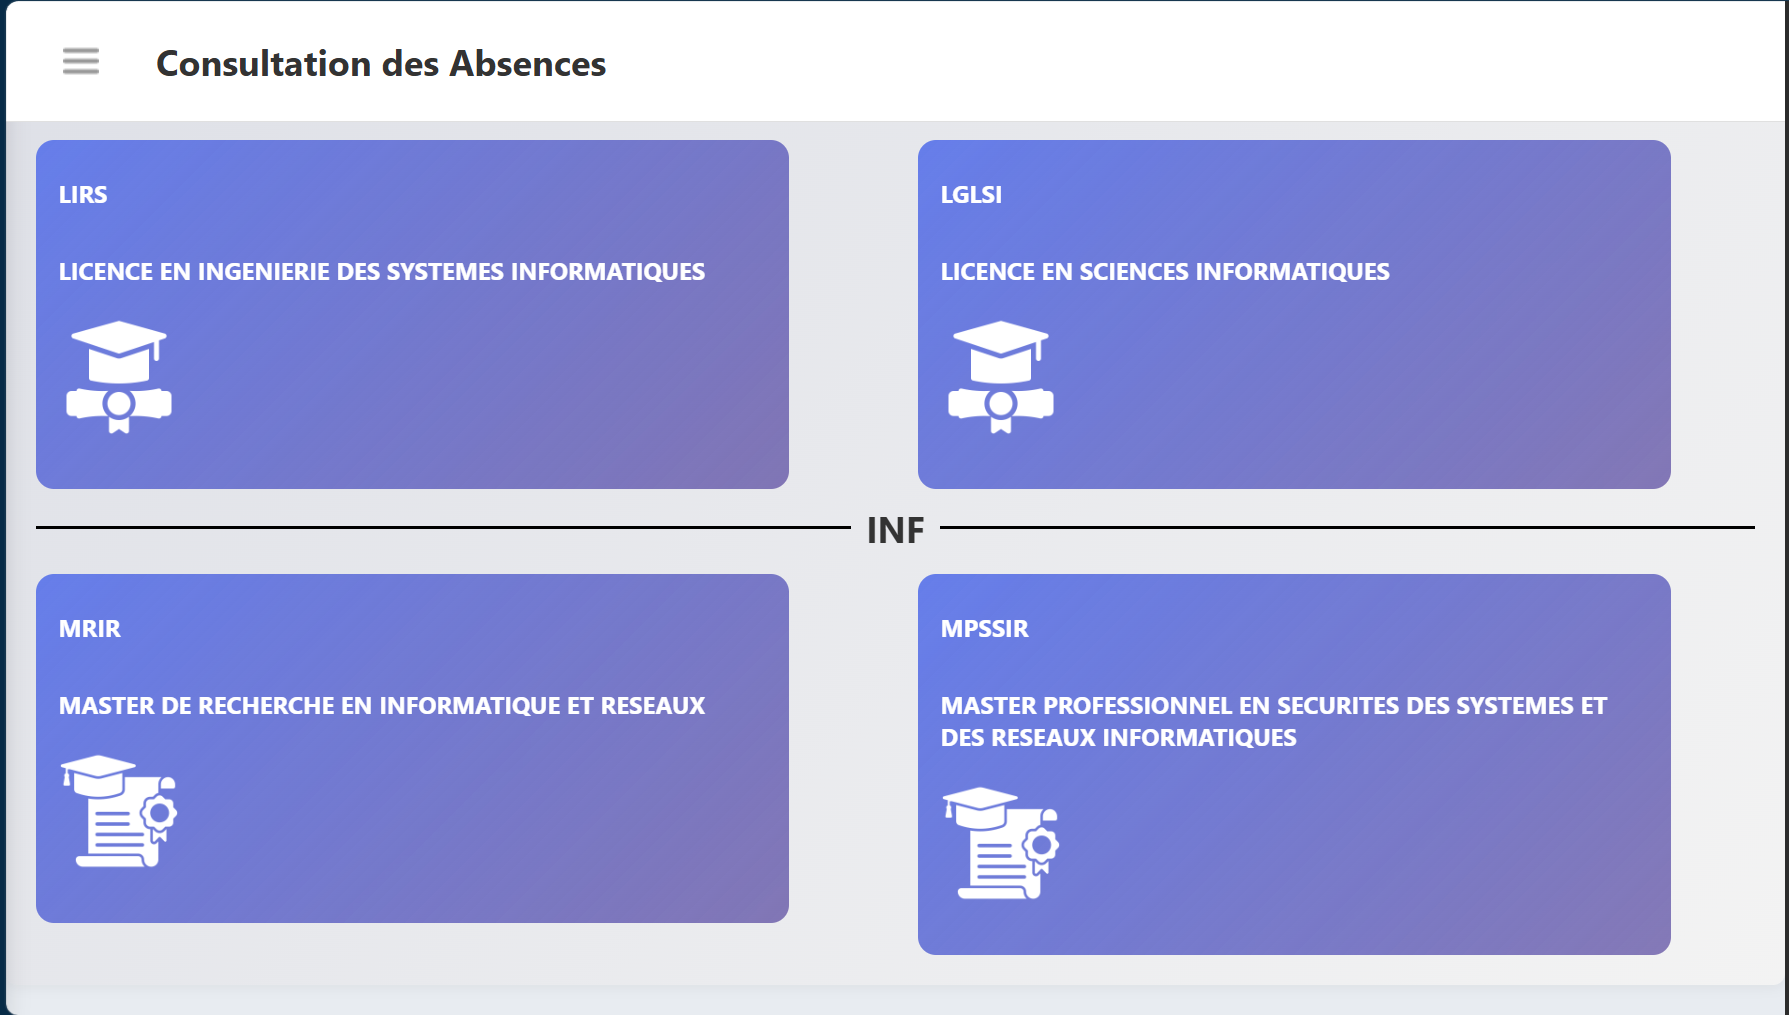
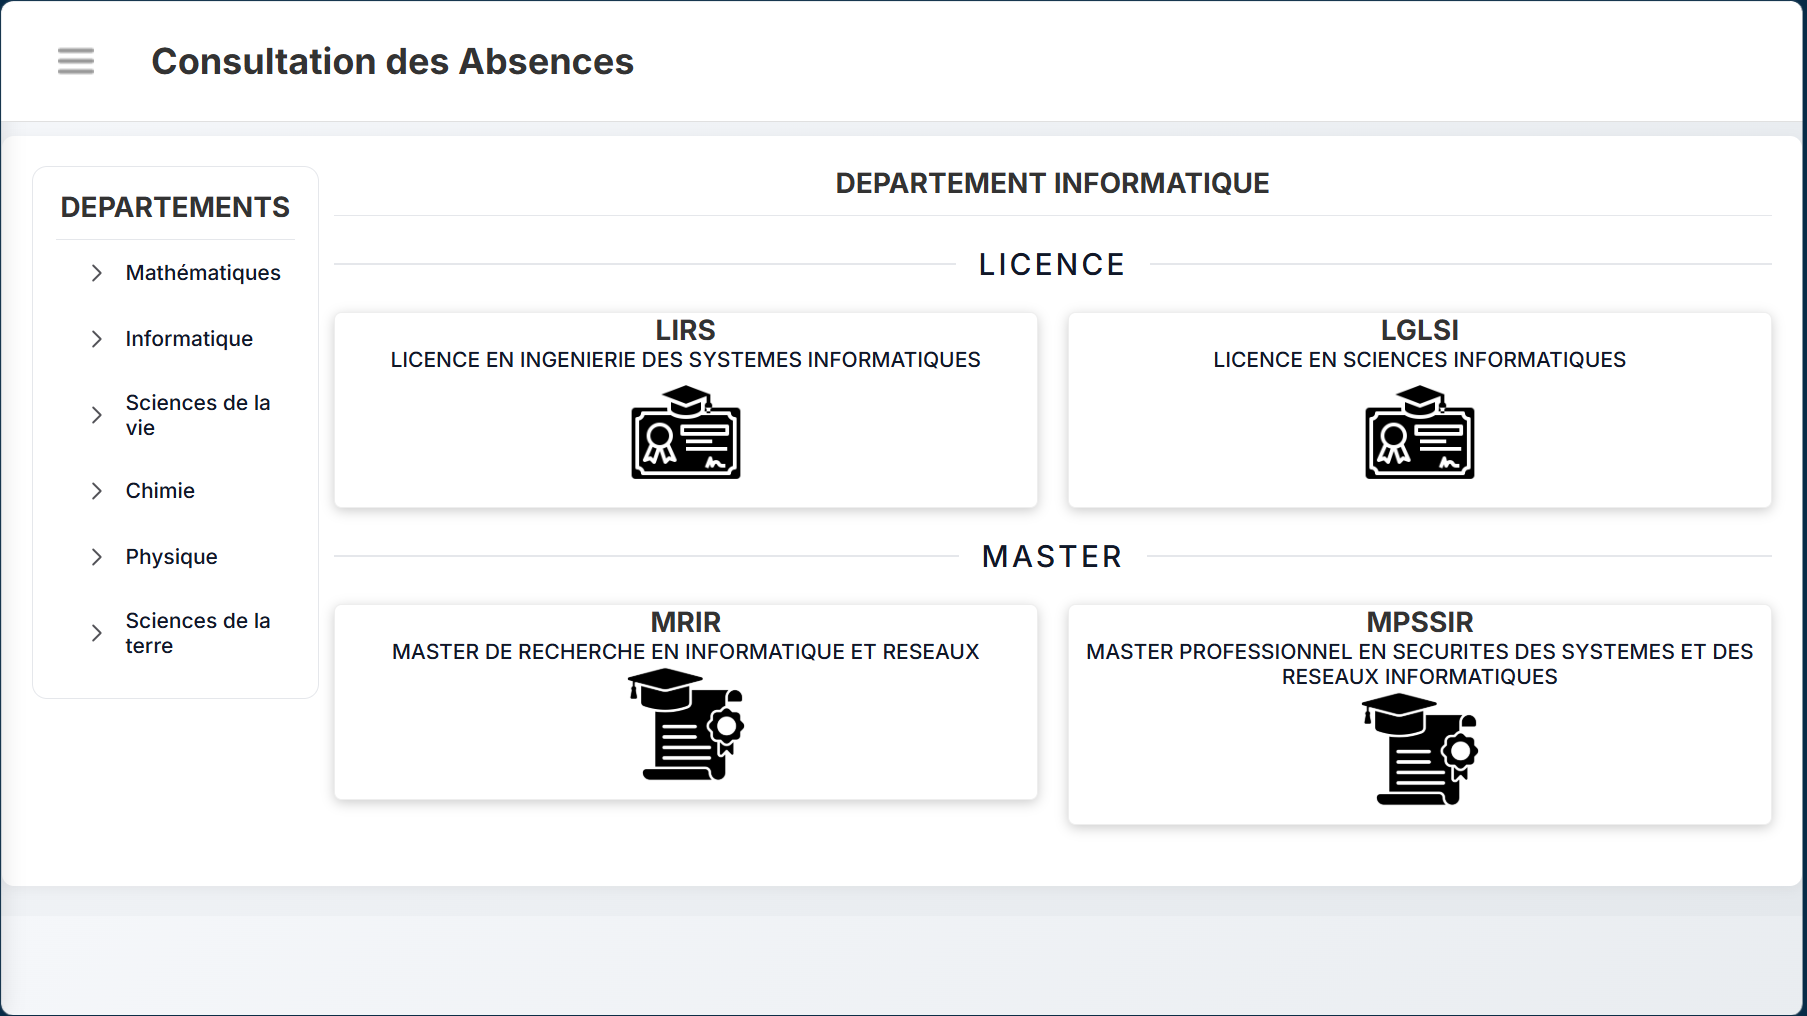
feat:Add more details Readme

diff --git a/src/main/java/com/belak/scheduletimetable/controller/GroupTimetableController.java b/src/main/java/com/belak/scheduletimetable/controller/GroupTimetableController.java
@@ -84,6 +84,20 @@ public class GroupTimetableController {
                 .body(image);
     }
 
+    @GetMapping("/group/timetable/{departement}/{filiere}/{niveau}")
+    public String showGroup(
+            @PathVariable String departement ,
+            @PathVariable String filiere ,
+            @PathVariable int niveau ,
+            @RequestParam(defaultValue = "0") int page,
+            @RequestParam(defaultValue = "10") int size,
+            Model model
+    ) {
+
+        model.addAttribute("group",timetableService.getAllGroupByDepartmentAndFieldAndLevel(departement,filiere,niveau));
+        return "/admin/see-absence-final";
+    }
+
 
 
 

diff --git a/src/main/java/com/belak/scheduletimetable/service/timetable/grouptimetable/GroupTimetableService.java b/src/main/java/com/belak/scheduletimetable/service/timetable/grouptimetable/GroupTimetableService.java
@@ -196,7 +196,7 @@ public class GroupTimetableService extends TimetableService {
                 groupTimetable.getId(),
                 groupTimetable.getDepartement().getLibelle() != null ? groupTimetable.getDepartement().getLibelle() : "NON DÉFINI",
                 groupTimetable.getGroup(),
-                groupTimetable.getFiliere() != null ? groupTimetable.getFiliere().toString() : "NON DÉFINI",
+                groupTimetable.getFiliere().getCode() != null ? groupTimetable.getFiliere().getCode() : "NON DÉFINI",
                 groupTimetable.getNiveau()
         );
     }

diff --git a/README.md b/README.md
@@ -50,7 +50,9 @@ have access to the system
 ### Dashboard
 ![Screenshot](images/dashboard.png)
 ### Timetable List
-![Screenshot](images/listemploidutemps.png)
+
+![Screenshot](images/emploidutempssansdepartmentselection.png)
+![Screenshot](images/emploidutempspardepartement.png)
 
 ### Timetable Send
 ![Screenshot](images/envoiemploidutemps.png)
